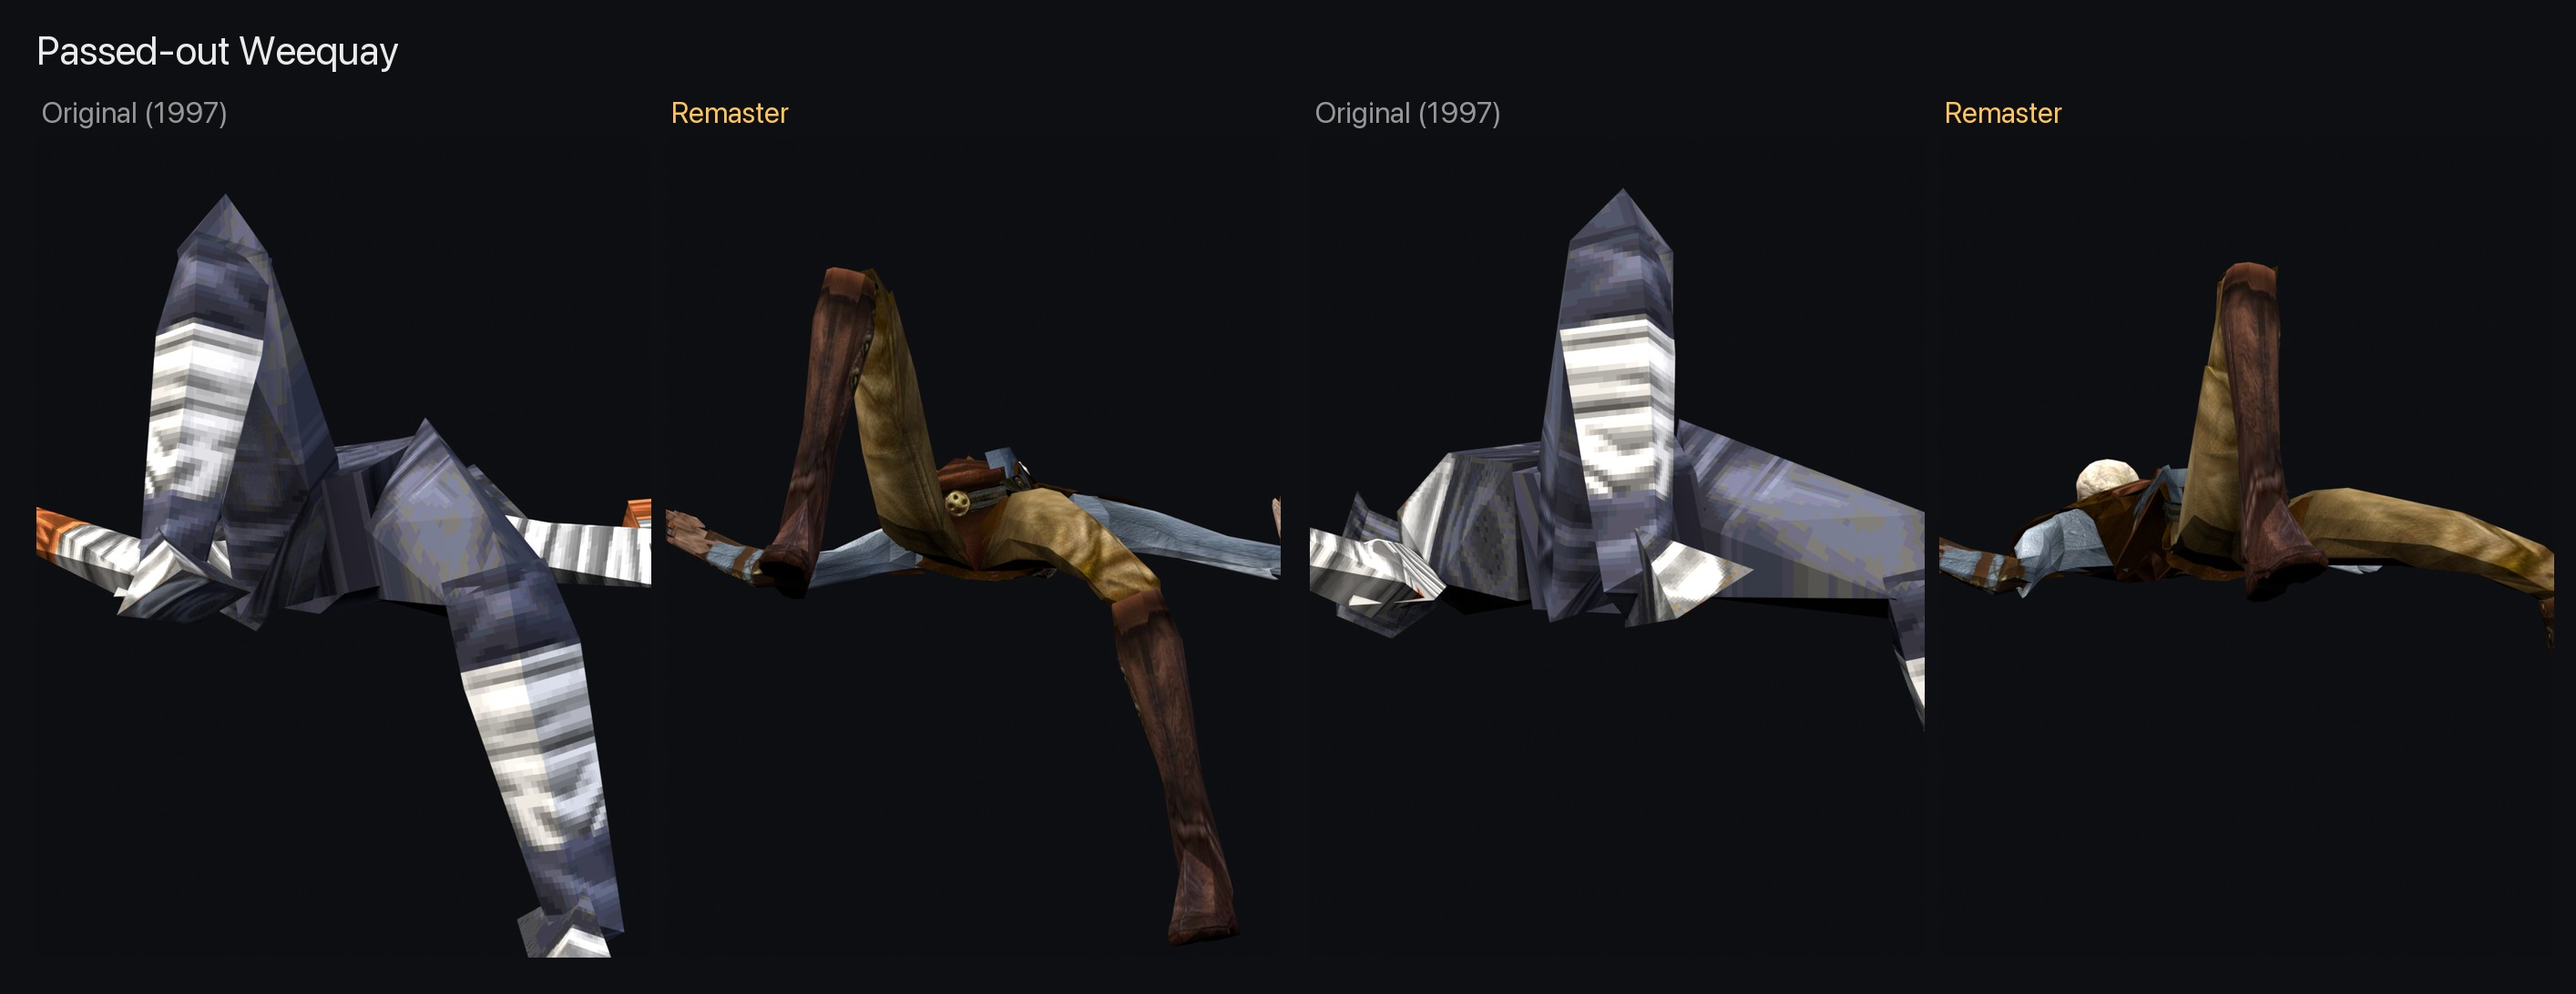
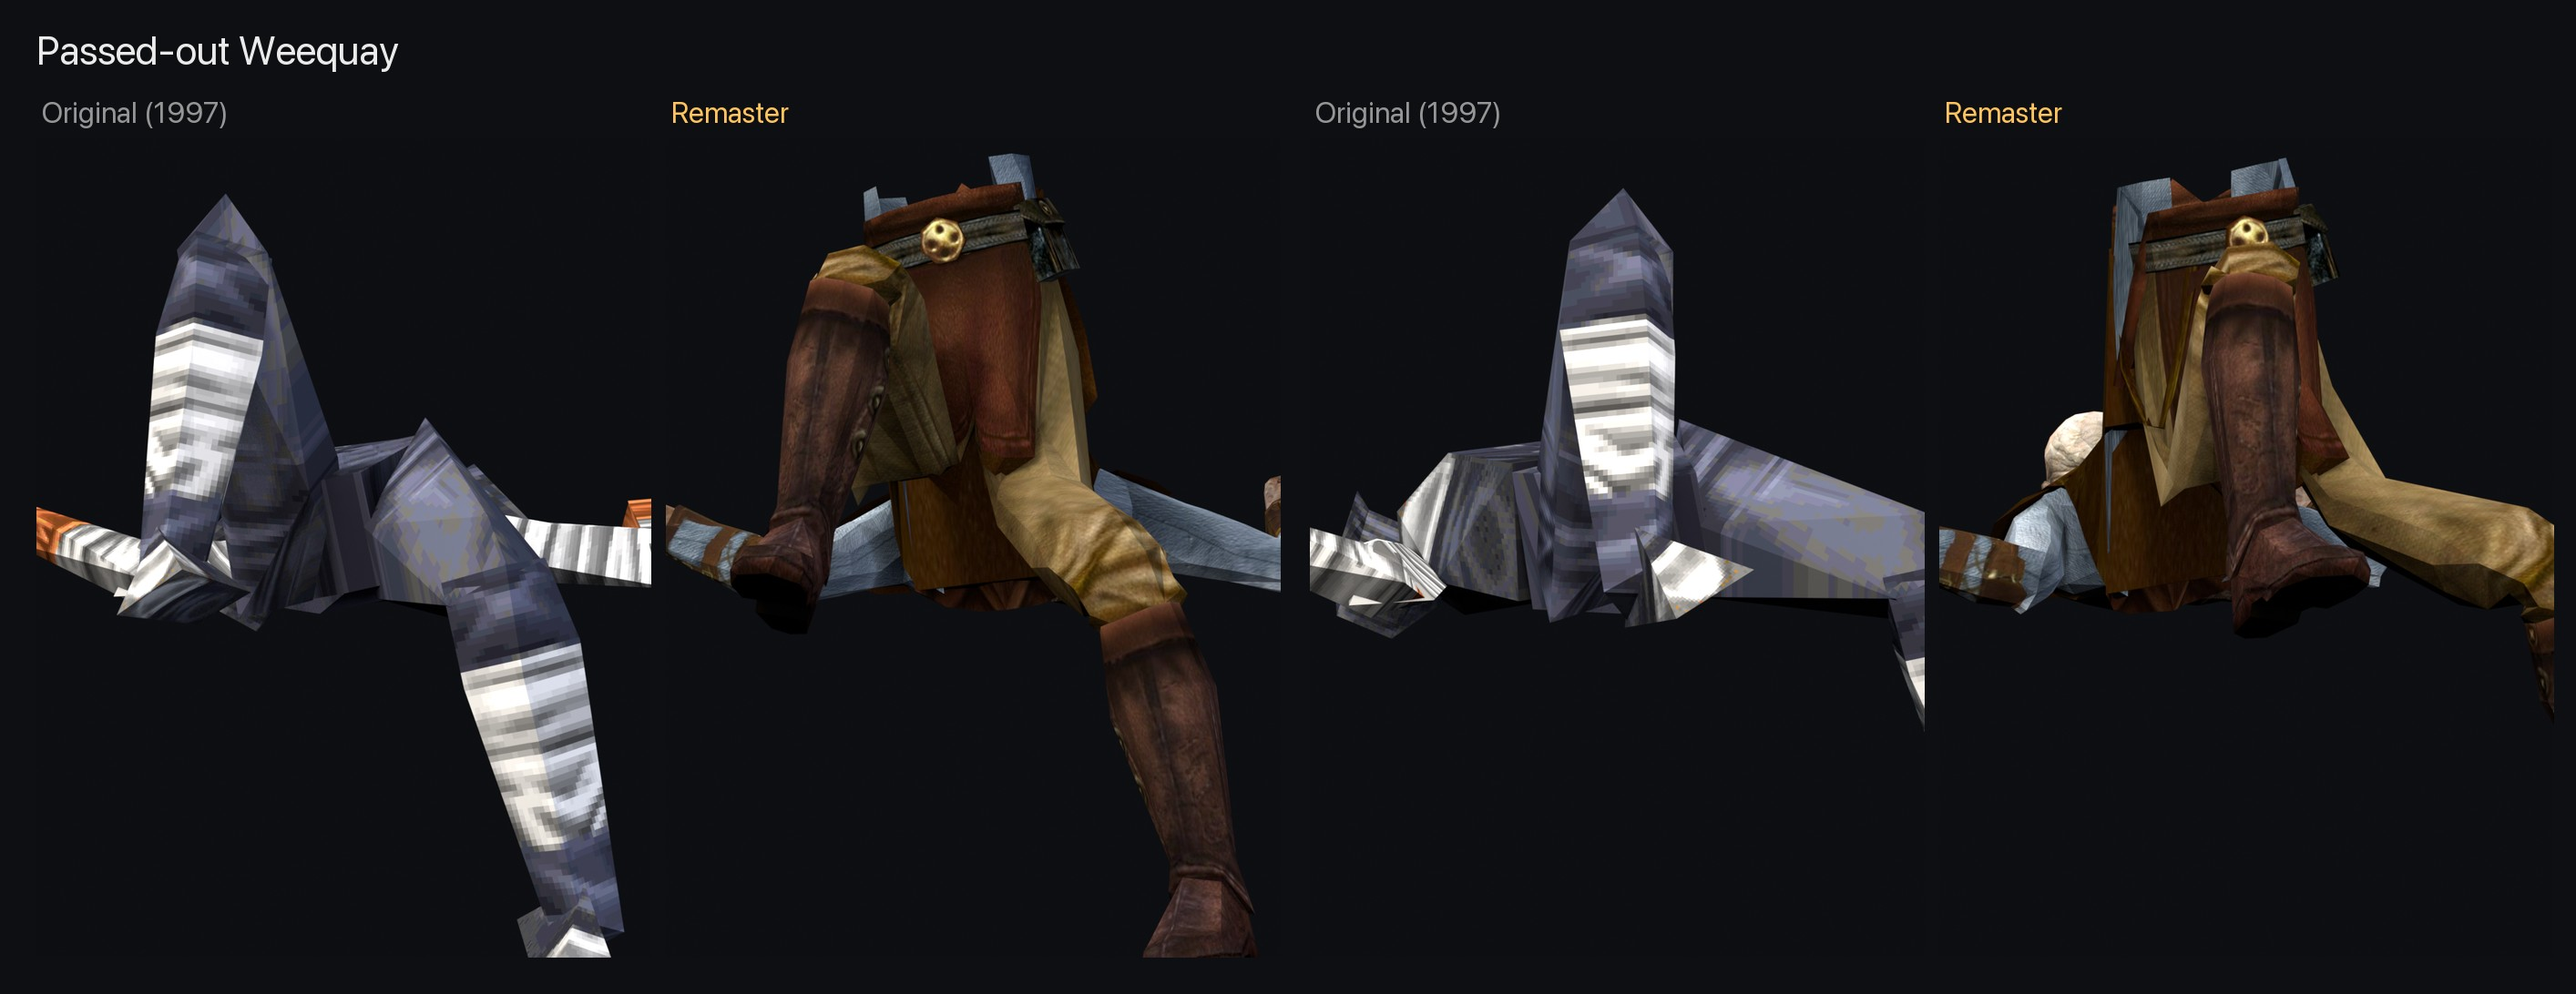
Cast: size lying models from a standing reference (the bar drunk was half size and stretched thin)

Changed region(s): [[0.2489, 0.1557, 0.4979, 0.9652], [0.7468, 0.1557, 0.9958, 0.6538]]

diff --git a/tools/blender/ja_to_jk.py b/tools/blender/ja_to_jk.py
@@ -252,6 +252,20 @@ def main():
         if ns:
             zs += [(rest[ns[0]] @ [v[0], v[1], v[2], 1])[2] for v in me.verts]
     jk_lo, jk_hi = min(zs), max(zs)
+    # --scale-ref <standing .3do>: size from a standing model of the same character. A model
+    # baked lying down (the Nar Shaddaa bar drunk) is only as tall as it is thick, which made the
+    # character half size and then stretched thin to reach the joints.
+    jk_height = jk_hi - jk_lo
+    if "--scale-ref" in argv:
+        ref = jk3do.load(argv[argv.index("--scale-ref") + 1])
+        rrest = jk3do.rest_matrices(ref)
+        rz = []
+        for k, me in enumerate(ref.geosets[0]):
+            ns = [i for i, nd in enumerate(ref.nodes) if nd.mesh == k]
+            if ns:
+                rz += [(rrest[ns[0]] @ [v[0], v[1], v[2], 1])[2] for v in me.verts]
+        jk_height = max(rz) - min(rz)
+        log("scale from %s: height %.4f (the target is %.4f tall)" % (os.path.basename(argv[argv.index("--scale-ref") + 1]), jk_height, jk_hi - jk_lo))
 
     for o in list(bpy.data.objects):  # factory scene: cube, camera, light
         bpy.data.objects.remove(o, do_unlink=True)
@@ -264,7 +278,7 @@ def main():
     # Global fit: face +Y, scale to JK height, stand on JK's floor, centred on JK's hip
     pts = [o.matrix_world @ v.co for o in meshes for v in o.data.vertices]
     ja_lo, ja_hi = min(p.z for p in pts), max(p.z for p in pts)
-    s = (jk_hi - jk_lo) / (ja_hi - ja_lo)
+    s = jk_height / (ja_hi - ja_lo)
     pelvis = arm.matrix_world @ arm.data.bones["pelvis"].head_local
     rot = Matrix.Rotation(math.pi, 4, "Z")
     p2 = rot @ pelvis
@@ -274,7 +288,7 @@ def main():
     for o in tops:
         o.matrix_world = G @ o.matrix_world
     bpy.context.view_layer.update()
-    log("scale %.5f, JA height %.3f -> JK %.4f" % (s, ja_hi - ja_lo, jk_hi - jk_lo))
+    log("scale %.5f, JA height %.3f -> JK %.4f" % (s, ja_hi - ja_lo, jk_height))
 
     # Snap limbs onto JK joints (armature space), parents first. Connected bones are pinned to
     # their parent's tip and can't be moved, so disconnect them first (rest pose unchanged).

diff --git a/tools/convert_cast.py b/tools/convert_cast.py
@@ -45,8 +45,10 @@ CAST = {
     "ugalt": ("ugnaught", "default", "Ugnaught"),
     # The passed-out drunk on the Nar Shaddaa bar table ("tuskensoused", model thout: a Trandoshan
     # lying down). A 4th field fits onto another JK model than the entry's own name.
-    "thout":  ("trandoshan", "default", "Passed-out Trandoshan"),
-    "thoutw": ("weequay", "default", "Passed-out Weequay", "thout"),
+    # A 5th field sizes the character from a standing JK model (the lying one is only as tall as
+    # it is thick).
+    "thout":  ("trandoshan", "default", "Passed-out Trandoshan", "thout", "th"),
+    "thoutw": ("weequay", "default", "Passed-out Weequay", "thout", "th"),
 }
 
 
@@ -93,13 +95,14 @@ def run(cmd, tag):
 def convert(name):
     ja, skin, title = CAST[name][:3]
     target = CAST[name][3] if len(CAST[name]) > 3 else name
+    scale_ref = ["--scale-ref", os.path.join(SRC, "3do", CAST[name][4] + ".3do")] if len(CAST[name]) > 4 else []
     out = os.path.join(ROOT, "hd", "models_ja", name)
     tpl = os.path.join(SRC, "3do", target + ".3do")
     glm = os.path.join(JA, "models", "players", ja, "model.glm")
     print("==", name, "->", ja, skin)
     if not run([BLENDER, "-b", "--factory-startup", "-noaudio", "--python",
                 os.path.join(ROOT, "tools", "blender", "ja_to_jk.py"), "--",
-                glm, JA, skin, tpl, out, name], "convert"):
+                glm, JA, skin, tpl, out, name, *scale_ref], "convert"):
         return False
     if not run([sys.executable, "-I", os.path.join(ROOT, "tools", "make_character_textures.py"), out, name], "textures"):
         return False

diff --git a/docs/DECISIONS.md b/docs/DECISIONS.md
@@ -675,3 +675,4 @@ Dom approved docs/stage2-atmosphere-plan.md. Branch `stage2-atmosphere`.
 - `tools/delight_textures.py PREFIX...` ("de-lighting"): pulls every pixel brighter than its surroundings back towards the local average (luminance only) and lifts the darkest painted shadows a little, so the engine's light does the shading; writes `<texture>_dl.png` and points the pack at it (`--revert` undoes it; the original metadata is kept in metadata.before_delight.json). Applied to Kyle, the Gran and the Imperial officer (26 textures): a small improvement, a little less sheen on the Gran's arms and Kyle's jacket (docs/screenshots/stage4-cast-delight.jpg). Waiting on Dom: the whole cast, or a Texture God run (repainted albedo plus roughness and normal maps, ~3 h of GPU for ~70 unique textures).
 
 **The drunk on the bar table** (Dom: "that block of polygons laying on the table"). It's the "tuskensoused" thing in Nar Shaddaa's spawn bar: despite the name, model `thout.3do` is a Trandoshan baked into a passed-out pose (same skeleton as `th`, no weapon), still the 1997 model under the remaster light. `tools/convert_cast.py` now takes a 4th field to fit onto another JK model than the entry's name, and has `thout` (Jedi Academy Trandoshan) and `thoutw` (Weequay) fitted onto the lying pose (joint error 0). Both installed and checked in game; the Trandoshan is the default (matches the level's other Trandoshans, reads better with the orange suit). docs/screenshots/stage4-bar-drunk.jpg, cast/thout.jpg, cast/thoutw.jpg. The converter needs the Blender profile with the Jedi Academy importer: `BLENDER_USER_RESOURCES=<scratchpad>/bluser` (rebuild it from USEFUL STUFF/blender-jediacademy-2.1.0 if the scratchpad is gone).
+- Dom: both drunks were "weirdly skinny with a round thing in the middle". The converter sized the character by the 1997 model's height, and lying down that's only its thickness (0.11 vs 0.18 standing): the character came out at about 0.6 x size and its limbs were stretched thin to reach the joints, so the table's round emblem showed through. `ja_to_jk.py --scale-ref <standing .3do>` (and a 5th field in the cast table) now sizes from the standing Trandoshan `th`; scale 0.018 -> 0.029. Both reconverted; they fill the table like the 1997 one.
